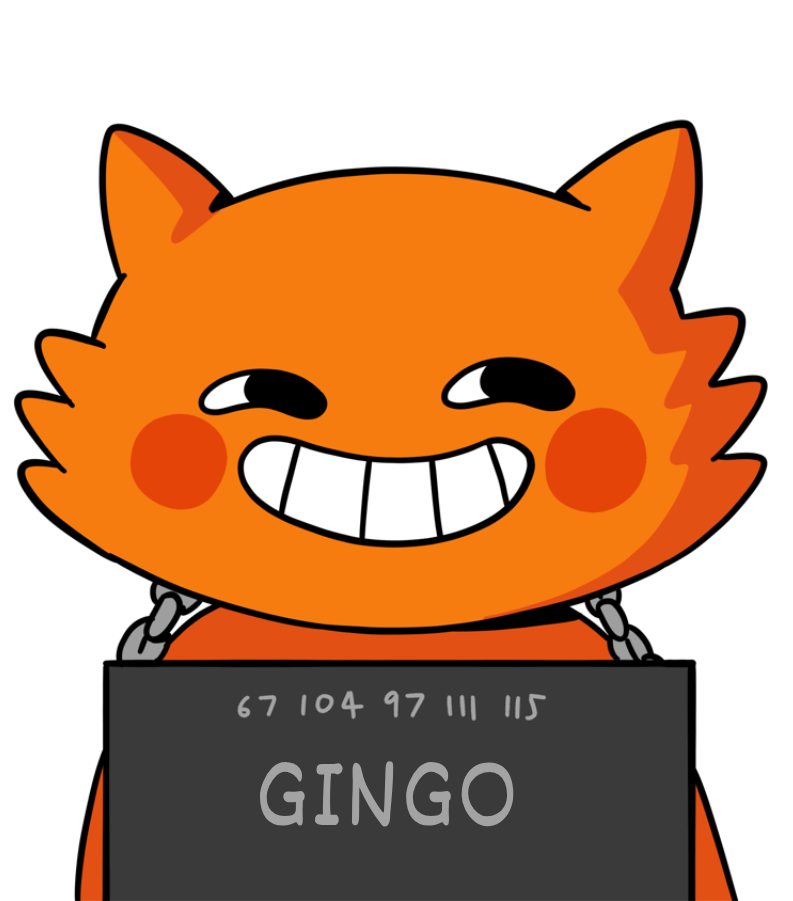
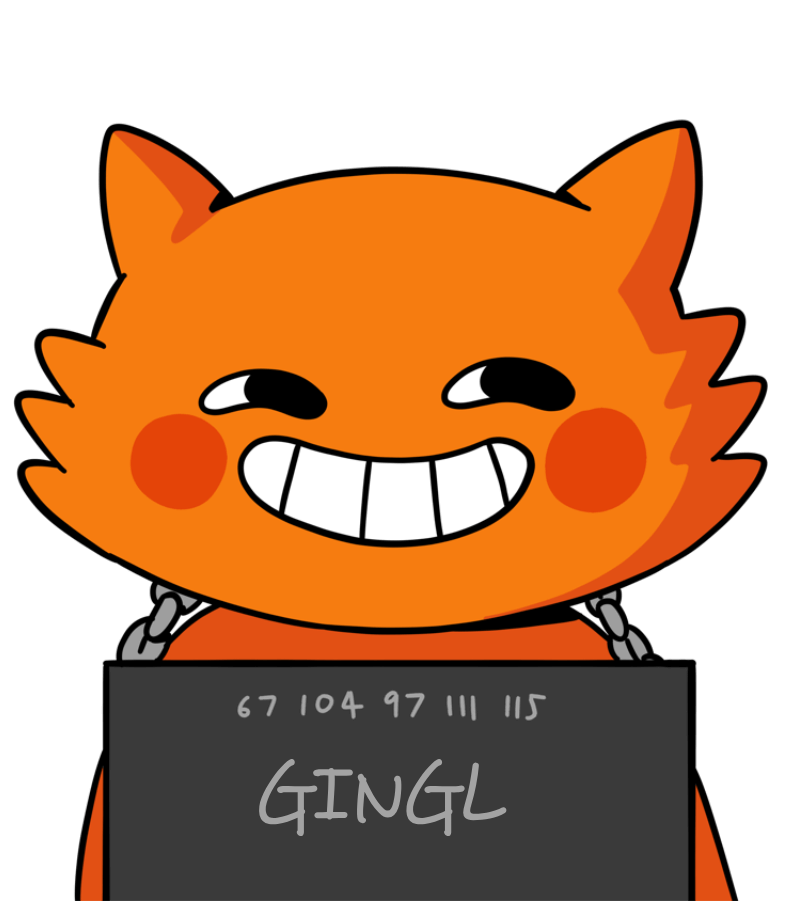
1

Changed region(s): [[0.3026, 0.8391, 0.6658, 0.9323]]

diff --git a/index.html b/index.html
@@ -3,9 +3,9 @@
 
 <head>
   <meta charset="utf-8">
-  <title>The Sparky Cat | $GINGO</title>
+  <title>The Ginger Cat | $GINGL</title>
   <meta content="width=device-width, initial-scale=1" name="viewport">
-  <meta content="The Ginger Cat" name="$GINGO">
+  <meta content="The Ginger Cat" name="$GINGL">
   <link href="css/normalize.css" rel="stylesheet" type="text/css">
   <link href="css/style.css" rel="stylesheet" type="text/css">
   <link href="css/bstyle.css" rel="stylesheet" type="text/css">
@@ -28,7 +28,7 @@ font-family: 'Super Squad';
   <div class="section_hero">
     <a data-w-id="4e8d95c4-39d8-cf17-89f1-7575d3437792"
       style="-webkit-transform:translate3d(0, 0, 0) scale3d(1, 1, 1) rotateX(0) rotateY(0) rotateZ(-4deg) skew(0, 0);-moz-transform:translate3d(0, 0, 0) scale3d(1, 1, 1) rotateX(0) rotateY(0) rotateZ(-4deg) skew(0, 0);-ms-transform:translate3d(0, 0, 0) scale3d(1, 1, 1) rotateX(0) rotateY(0) rotateZ(-4deg) skew(0, 0);transform:translate3d(0, 0, 0) scale3d(1, 1, 1) rotateX(0) rotateY(0) rotateZ(-4deg) skew(0, 0)"
-      href="https://pump.fun/HwR9XshX28QNCZ8xGfuM9z9Dd2xt9dE3LhPJSwn2pump" class="buy w-button">BUY $GINGO</a>
+      href="https://pump.fun/_TBA_" class="buy w-button">BUY $GINGL</a>
     <img src="images/liane_left.svg" loading="lazy" alt="" class="liane_left">
     <img src="images/liane_right.svg" loading="lazy" alt="" class="laine_right">
     <div class="grass_hero">
@@ -50,15 +50,15 @@ font-family: 'Super Squad';
           dominant-baseline: central;
         }
       </style>
-      <text class="rico-text" x="50%" y="35%">GINGO</text>
+      <text class="rico-text" x="50%" y="35%">GINGL</text>
     </svg>
 
 
     <img src="images/rico-h.png" loading="lazy" sizes="100vw" srcset="images/rico-h.png 500w, images/rico-h.png 793w"
       alt="" class="chara_hero">
     <div class="links_hero">
-      <a href="https://t.me/jgingosolfun" class="tg w-button" target="blank"></a>
-      <a href="https://x.com/jgingosolfun
+      <a href="https://t.me/ginglsolfun" class="tg w-button" target="blank"></a>
+      <a href="https://x.com/ginglsolfun
 " class="x w-button" target="blank"></a>
 
     </div>
@@ -66,8 +66,8 @@ font-family: 'Super Squad';
   <div class="separator_ca">
     <div class="block_ca">
       <div class="ca_in">
-        <div class="ca">HwR9XshX28QNCZ8xGfuM9z9Dd2xt9dE3LhPJSwn2pump</div>
-        <div class="ca_mobile">HwR9XshX28QNCZ8xGfuM9z9Dd2xt9dE3LhPJSwn2pump</div>
+        <div class="ca">_TBA_</div>
+        <div class="ca_mobile">_TBA_</div>
         <a href="#" class="copy w-button">COPY</a>
       </div>
     </div>
@@ -80,7 +80,7 @@ font-family: 'Super Squad';
   </div>
   <div class="section_about_bottom">
     <div class="block_para">
-      <p class="paragraph">Yeah, I’m GINGO the cat. The troublemaker, the chaos starter, the one who keeps things
+      <p class="paragraph">Yeah, I’m GINGL the cat. The troublemaker, the chaos starter, the one who keeps things
         interesting. I don’t just cause a
         scene—I own it. But don’t let the mischief fool you—I’ve got big plans, and they’re just getting started. You’re
         here
@@ -97,7 +97,7 @@ font-family: 'Super Squad';
     <div class="block_tokenomics">
       <div class="tokenomics_in">
         <div class="tokenomics_details">
-          <div class="h2">TOTAL SUPPLY = 1 BILLION $GINGO</div>
+          <div class="h2">TOTAL SUPPLY = 1 BILLION $GINGL</div>
         </div>
         <div class="tokenomics_details">
           <div class="h2">MINT = REVOKED</div>
@@ -113,10 +113,10 @@ font-family: 'Super Squad';
       class="chara_diamond">
   </div>
   <div class="section_join">
-    <div class="h1 h1_3">GINGO THE<br>CHAOTIC CAT</div>
+    <div class="h1 h1_3">GINGL THE<br>CHAOTIC CAT</div>
     <div class="block_links">
-      <a href="https://t.me/jgingosolfun" class="tg w-button" target="blank"></a>
-      <a href="https://x.com/jgingosolfun" class="x w-button" target="blank"></a>
+      <a href="https://t.me/ginglsolfun" class="tg w-button" target="blank"></a>
+      <a href="https://x.com/ginglsolfun" class="x w-button" target="blank"></a>
 
     </div><img src="images/rico.png" loading="lazy" sizes="(max-width: 479px) 90vw, 410.7749938964844px"
       srcset="images/rico.png 500w, images/rico.png 800w" alt="" class="chara_footer">
